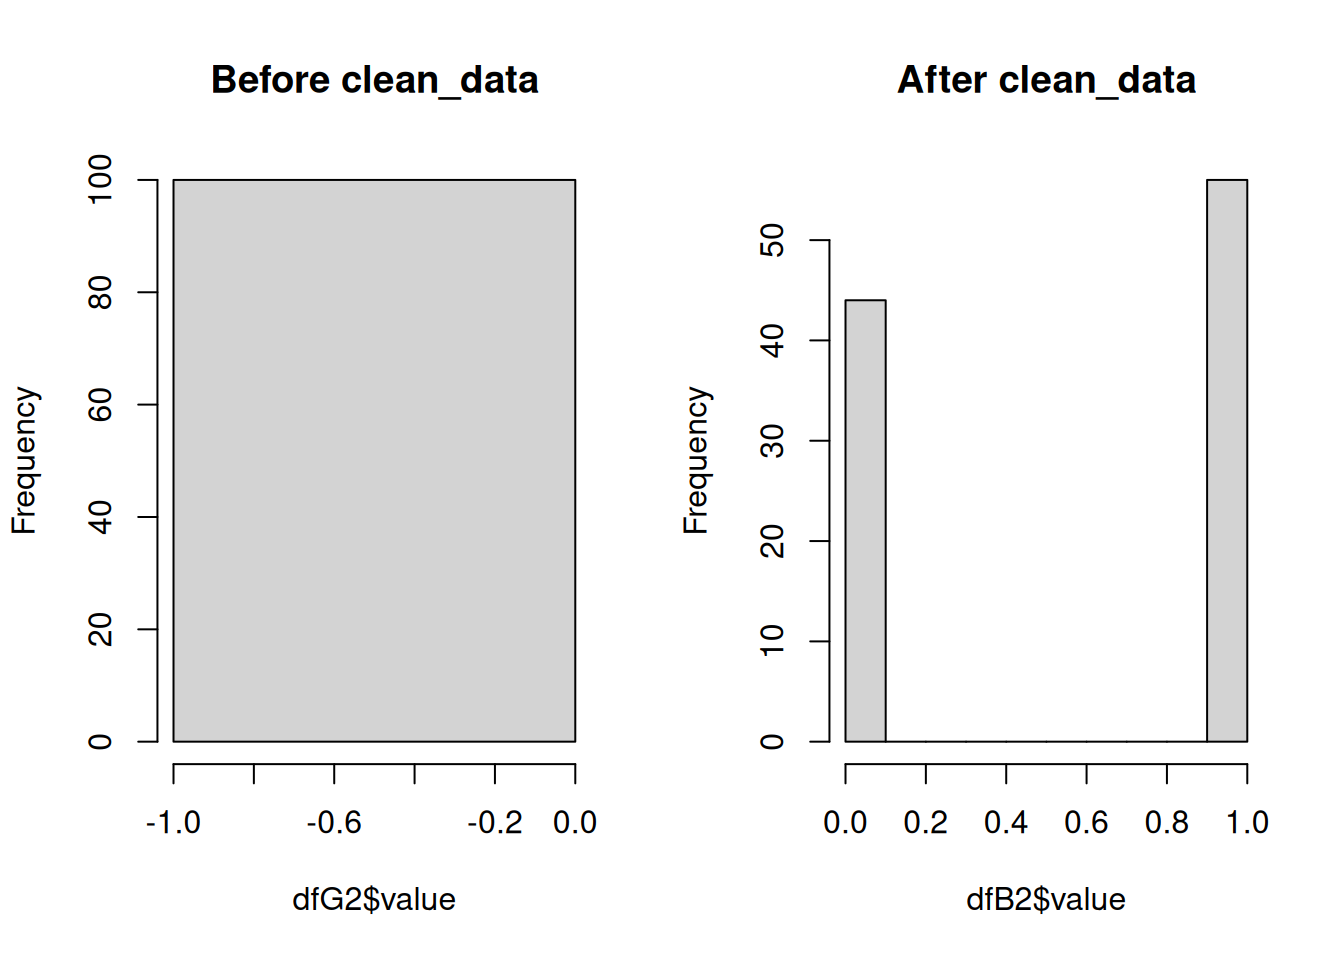
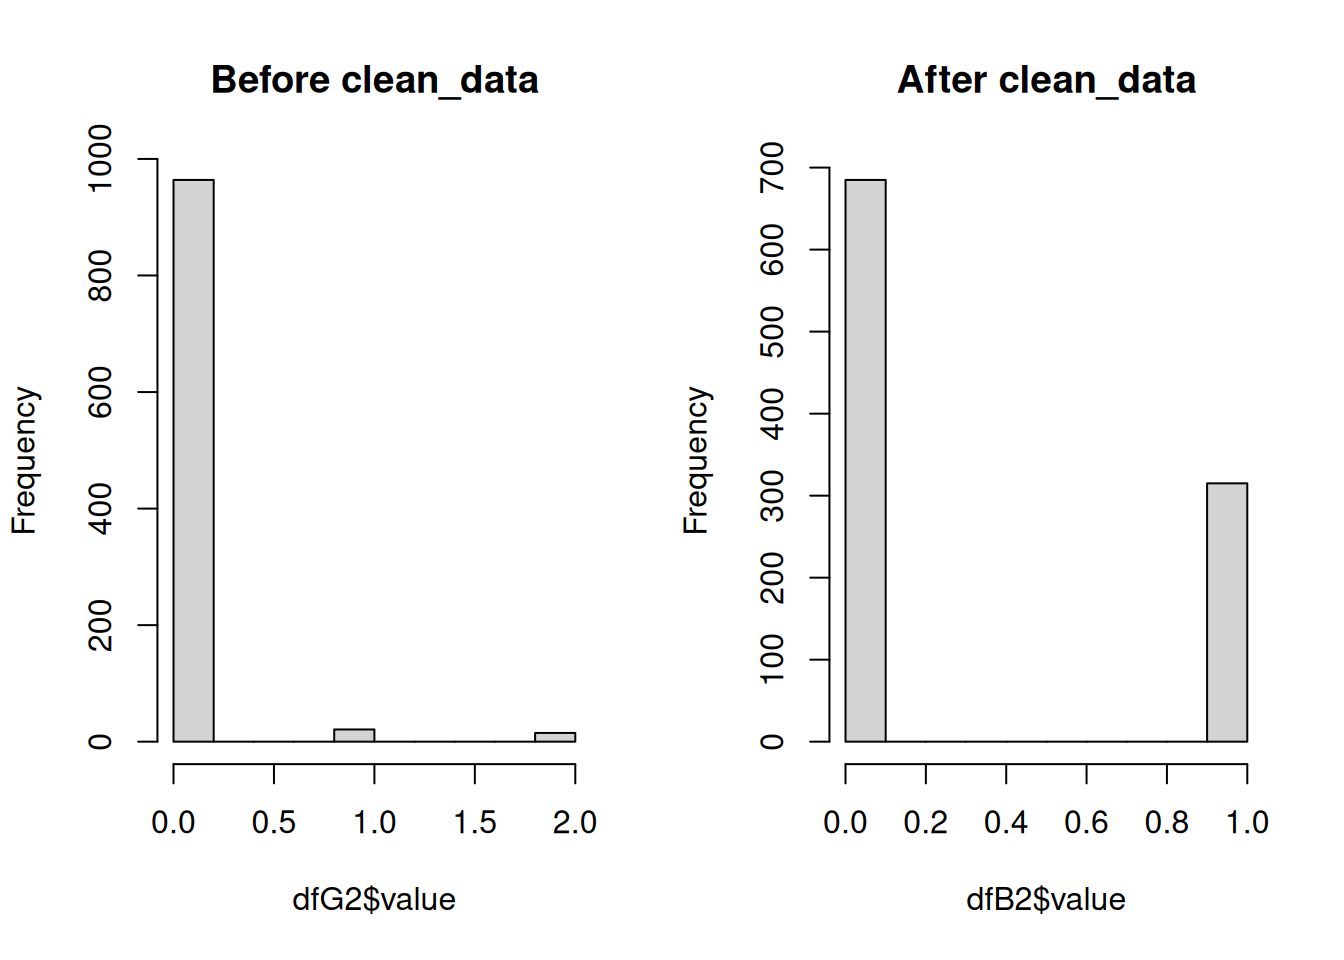
Built site for gh-pages

diff --git a/content/ensemble-sdms.html b/content/ensemble-sdms.html
@@ -635,7 +635,7 @@ pre > code.sourceCode > span > a:first-child::before { text-decoration: underlin
 <p>For example, based on the habitat and feeding keys provided, the data frame for Summer flounder will be subset to the following variables:</p>
 <div class="cell">
 <div class="cell-output cell-output-stdout">
-<pre><code>'data.frame':   100 obs. of  15 variables:
+<pre><code>'data.frame':   1000 obs. of  15 variables:
  $ x         : num  -66.8 -66.7 -66.7 -66.6 -66.5 ...
  $ y         : num  45 45 45 45 45 ...
  $ value     : num  0 0 0 0 0 0 0 0 0 0 ...
